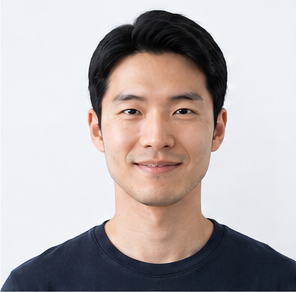
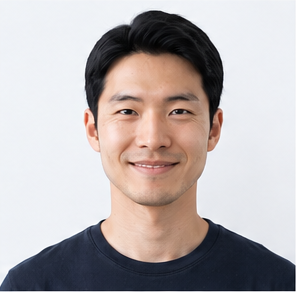
Modify code

diff --git a/exp_demo/chen_demo_31.html b/exp_demo/chen_demo_31.html
@@ -152,14 +152,7 @@
     function make_frame_file(stimulusSet, frameNumber) {
       const frameNumberText = String(frameNumber).padStart(FRAME_NUMBER_DIGITS, '0');
 
-      // 네 파일 목록 기준으로 frame_16만 jpg였기 때문에 따로 처리함.
-      // frame_16도 png로 바꿨다면 아래 stimulusSets에서 neutral_extension을 'png'로 바꾸면 됨.
-      const extension =
-        frameNumber === 16
-          ? stimulusSet.neutral_extension
-          : stimulusSet.image_extension;
-
-      return `${stimulusSet.stim_path}frame_${frameNumberText}.${extension}`;
+      return `${stimulusSet.stim_path}frame_${frameNumberText}.${stimulusSet.image_extension}`;
     }
 
 
@@ -187,22 +180,19 @@
         set_id: 1,
         model_code: 'AW',
         stim_path: 'images/set01/',
-        image_extension: 'png',
-        neutral_extension: 'jpg'
+        image_extension: 'png'
       },
       {
         set_id: 2,
         model_code: 'AM',
         stim_path: 'images/set02/',
-        image_extension: 'png',
-        neutral_extension: 'jpg'
+        image_extension: 'png'
       },
       {
         set_id: 3,
         model_code: 'AW2',
         stim_path: 'images/set03/',
-        image_extension: 'png',
-        neutral_extension: 'jpg'
+        image_extension: 'png'
       }
     ];
 
@@ -235,7 +225,6 @@
             model_code: stimulusSet.model_code,
             stim_path: stimulusSet.stim_path,
             image_extension: stimulusSet.image_extension,
-            neutral_extension: stimulusSet.neutral_extension,
 
             direction_code: direction.direction_code,
             direction_label: direction.direction_label,
@@ -585,7 +574,6 @@
           model_code: condition.model_code,
           stim_path: condition.stim_path,
           image_extension: condition.image_extension,
-          neutral_extension: condition.neutral_extension,
 
           direction_code: condition.direction_code,
           direction_label: condition.direction_label,
